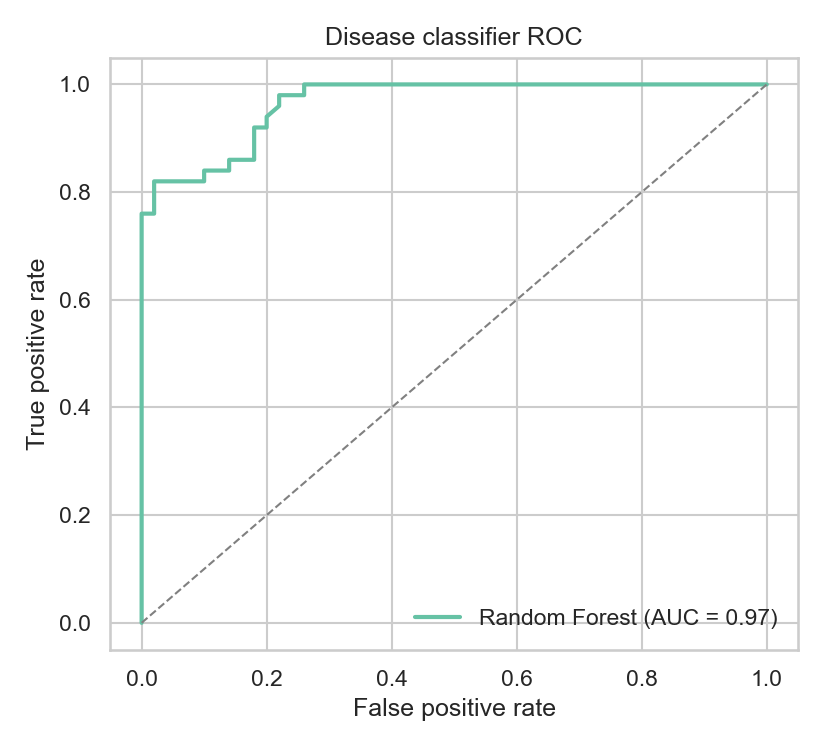
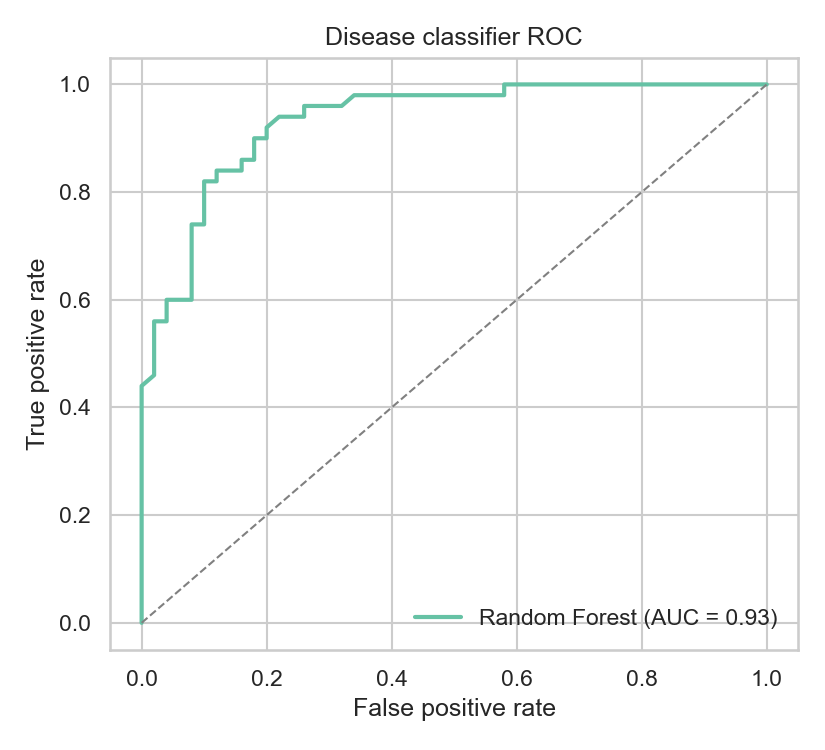
Use scikit-bio's CLR with multiplicative zero-replacement
ml.clr_transform now uses skbio.stats.composition.multi_replace +
skbio.stats.composition.clr instead of an additive epsilon pseudocount.
Multiplicative replacement rescales the whole composition to stay on
the simplex instead of distorting it with an ad hoc constant, which is
the standard, geometry-preserving way to handle zeros in compositional
data. Drops the now-unused pseudocount parameter (no call site used a
non-default value). cross_validate_classifier/feature_importance are
unchanged -- already scikit-learn, already realistic.

Regenerates the ML example's figures; the classifier's CV accuracy is
unchanged but ROC AUC shifts slightly (0.965 -> 0.933) since the
CLR-transformed feature space feeding the random forest changed.

diff --git a/src/amplicon_diversity/ml/classify.py b/src/amplicon_diversity/ml/classify.py
@@ -3,24 +3,30 @@ from __future__ import annotations
 
 import numpy as np
 import pandas as pd
+import skbio.stats.composition as composition
 from sklearn.base import ClassifierMixin, clone
 from sklearn.ensemble import RandomForestClassifier
 from sklearn.metrics import accuracy_score, roc_auc_score
 from sklearn.model_selection import StratifiedKFold, cross_val_predict
 
 
-def clr_transform(table: pd.DataFrame, pseudocount: float = 1e-6) -> pd.DataFrame:
+def clr_transform(table: pd.DataFrame) -> pd.DataFrame:
     """Centered log-ratio (CLR) transform of a compositional (samples x features) table.
 
     CLR(x)_i = log(x_i) - mean_j(log(x_j)), computed per sample. This is the
     standard way to make compositional abundance data usable by models that
     assume unconstrained, roughly-Euclidean features (e.g. random forests,
     logistic regression, PCA).
+
+    Zeros are handled with ``skbio.stats.composition.multi_replace``
+    (multiplicative replacement) rather than an arbitrary additive
+    pseudocount, since it rescales the whole composition to stay on the
+    simplex instead of distorting it with an ad hoc constant.
     """
     rel = table.div(table.sum(axis=1).replace(0, 1), axis=0)
-    shifted = rel + pseudocount
-    log_vals = np.log(shifted)
-    return log_vals.sub(log_vals.mean(axis=1), axis=0)
+    positive = composition.multi_replace(rel.values)
+    clr_vals = composition.clr(positive)
+    return pd.DataFrame(clr_vals, index=table.index, columns=table.columns)
 
 
 def cross_validate_classifier(
